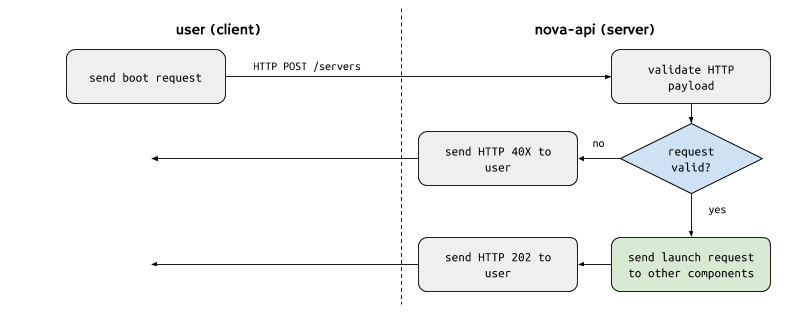
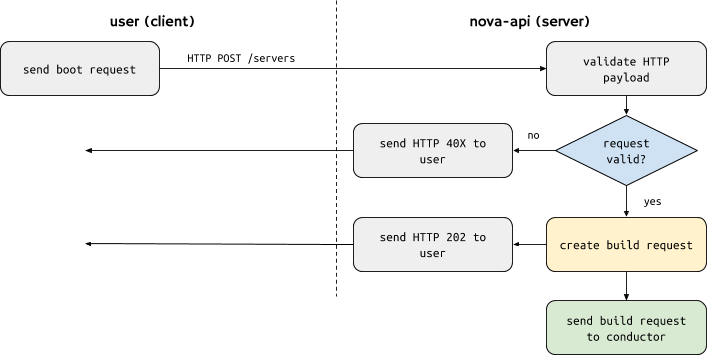
continue fleshing out walkthrough of build request
Add more information and updated flow chart for initial request from
user to nova-api service, with breakdown of the steps the nova-api
service performs.

diff --git a/openstack/walkthrough-launch-instance-request.md b/openstack/walkthrough-launch-instance-request.md
@@ -20,6 +20,10 @@ described processes.
     1. [The flavor](#the-flavor)
     1. [The image](#the-image)
 1. [API server receives boot request](#openstack-compute-api-server-receives-boot-request)
+    1. [Validate request](#validate-http-payload)
+    1. [Construct build request](#construct-build-request)
+    1. [Send build request to conductor](#send-build-request-to-conductor)
+1. [Super conductor starts coordinating](#super-conductor-coordinates-placement-and-target-cell-calls)
 
 ## The boot request from the user
 
@@ -92,3 +96,41 @@ request to perform some action has been successfully received and that the
 request will be processed. It does **not** mean that the operation being
 requested to perform (in this case, to launch a server instance) has completed
 successfully.
+
+### Validate HTTP payload
+
+Each HTTP resource endpoint is handled by a method on a controller class. These
+controller classes are all in the `nova/api/openstack/compute` source code
+directory. For example, the `POST /servers` HTTP call is handled by the
+[`nova.api.openstack.compute.servers.ServersController.create()`](https://github.com/openstack/nova/blob/stable/pike/nova/api/openstack/compute/servers.py#L453) method.
+
+### Construct "build request"
+
+Once the basic HTTP payload has been validated, `nova-api`'s next step is to
+[create the "build request"](https://github.com/openstack/nova/blob/stable/pike/nova/compute/api.py#L880.
+The build request contains information from the user's boot request along with
+lots of other important information:
+
+* a request UUID to identify the specific request from the user
+* a pre-generated UUID to identify the to-be-created instance(s)
+* block devices to be created for the instance
+* networks, ports and IP addresses for the instance
+* server "groups" that the instance belongs to
+* user-defined tags to associate with the instance
+
+### Send build request to conductor
+
+Once the build requests (one per requested instance) have been created,
+`nova-api` [sends these build request objects](https://github.com/openstack/nova/blob/stable/pike/nova/compute/api.py#L1170) to the **top-level** `nova-conductor` service
+via an async/cast RPC message. This top-level `nova-conductor` service is known
+as the "super conductor". There are other `nova-conductor` services that
+function at a cell level. These `nova-conductor` services are called either
+"cell conductors" or "cell-local conductors".
+
+## Super conductor coordinates placement and targeted cell calls
+
+### Call scheduler `select_destinations()`
+
+#### Scheduler asks Placement for possible resource providers
+
+### Send build instruction to selected host in cell
